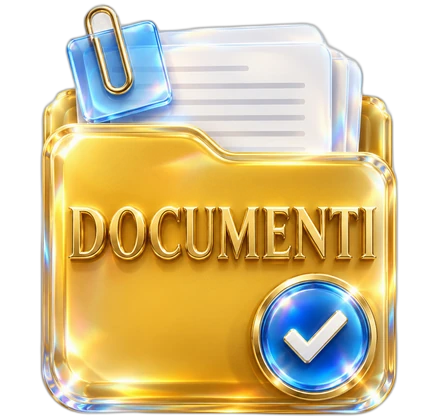
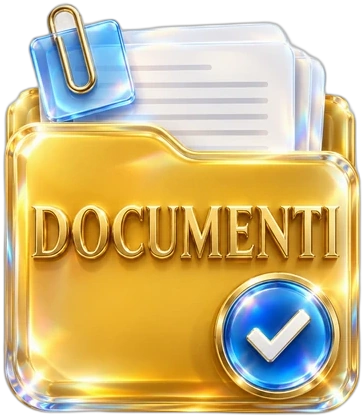
Invio: il pulsante sta dentro il riquadro scelto e pulsa; nuova icona della chat; icona dei documenti più grande
Claude-Session: https://claude.ai/code/session_01Cqi2BvgWJF36FDNNWop7Gq

diff --git a/invio.py b/invio.py
@@ -403,6 +403,11 @@ def _inv_nomi_unici(allegati):
     return risultato
 
 
+_INV_CSS_PULSA = ("<style>@keyframes invg-pulsa{0%,100%{transform:scale(1);box-shadow:0 0 0 0 rgba(38,198,218,.75)}50%{transform:scale(1.025);box-shadow:0 0 0 10px rgba(38,198,218,0)}}"
+                  "div[class*='st-key-invg_'] button[kind='primary'],div[class*='st-key-invg_'] a[kind='primary'],div[class*='st-key-invg_'] [data-testid='stBaseButton-primary'],"
+                  "div[class*='st-key-invg_'] [data-testid='stBaseLinkButton-primary']{animation:invg-pulsa 1.5s ease-in-out infinite !important}"
+                  ".invg-fai{font-weight:800;font-size:.9rem;margin:6px 0 2px;opacity:.95}"
+                  "@media (prefers-reduced-motion:reduce){div[class*='st-key-invg_'] button,div[class*='st-key-invg_'] a{animation:none !important}}</style>")
 _INV_NUM = ["1⃣", "2⃣", "3⃣", "4⃣", "5⃣", "6⃣", "7⃣"]
 
 
@@ -572,6 +577,72 @@ def inv_canali(chiave, titolo, testo, allegati, oggetto=None, passo=1, forma_fis
     # ---- con cosa e a chi
     st.warning("🔒 Stai per inviare **dati personali**: controlla bene a chi li mandi.")
     ha_file = bool(pronti)
+
+    def _azione(canale):
+        """Il campo «a chi» e il pulsante per inviare: stanno DENTRO il riquadro della voce scelta (non in fondo alla pagina)."""
+        st.markdown("<div class='invg-fai'>👇 " + ("Scrivi a chi e invia" if canale in ("email", "wa", "sms") else "Tocca per inviare") + "</div>", unsafe_allow_html=True)
+        if canale == "app":
+            st.caption("Si apre la finestra **Condividi**: scegli l'app (WhatsApp, Gmail, Telegram, Drive…) e poi la persona. " + ("I file sono già allegati." if ha_file else ""))
+            inv_registra_condivisione(chiave, titolo, testo, pronti)
+            with st.container(key=f"invio_share_{chiave}"):
+                st.button("📤 Invia adesso: scegli WhatsApp, Gmail…", key=f"invio_btn_share_{chiave}", type="primary", width="stretch")
+            st.markdown("<div class='inv-diag' style='font-size:.82rem;margin:2px 0 6px'></div>", unsafe_allow_html=True)
+            if ha_file:
+                st.caption("Se non si apre: torna al passo «Cosa vuoi fare?», scegli **Scaricarlo** e poi allegalo a mano nell'app con la graffetta 📎.")
+        elif canale == "email":
+            if not inv_email_pronta():
+                st.info("L'app non ha ancora una casella per spedire da sola (servono EMAIL_USER ed EMAIL_PASSWORD nei Secrets di Streamlit: la guida «Invio» spiega come). "
+                        "Intanto si apre **la tua posta** con il testo già scritto" + ("; i file allegali dopo averli scaricati." if ha_file else "."))
+                a = st.text_input("Indirizzo email di chi lo riceve (facoltativo)", key=f"inv_a_{chiave}")
+                st.link_button("✉ Apri la mia posta", inv_link_mailto(a.strip(), oggetto, testo), width="stretch", type="primary")
+            else:
+                a = st.text_input("Indirizzo email di chi lo riceve (più indirizzi: separali con la virgola)", value=d_conto.get("avviso_email", ""), key=f"inv_a_{chiave}")
+                msg = st.text_area("Messaggio", value="Ti mando in allegato i documenti. " if ha_file else "Ecco il riepilogo.", key=f"inv_m_{chiave}", height=80)
+                scelti = [x for i, x in enumerate(pronti) if st.checkbox(f"📎 {x[0]} ({len(x[2]) // 1024} KB)", value=True, key=f"inv_c_{chiave}_{i}")]
+                if sum(len(x[2]) for x in scelti) > _MAX_ALLEGATI:
+                    st.warning("I file scelti sono troppo pesanti per una sola email: togline qualcuno, oppure scaricali e mandali con un servizio per file grandi.")
+                if st.button("✉ Invia l'email", type="primary", key=f"inv_si_{chiave}", width="stretch"):
+                    ok, ko = inv_indirizzi(a)
+                    if not ok:
+                        st.error("Scrivi un indirizzo email valido.")
+                    elif ko:
+                        st.error("Indirizzo non valido: " + ", ".join(ko))
+                    elif len(ok) > 5:
+                        st.error("Al massimo 5 indirizzi per volta.")
+                    elif st.session_state.get("inv_n_email", 0) >= 20:
+                        st.error("Hai già mandato molte email in questa sessione: riapri l'app per continuare.")
+                    else:
+                        with st.spinner("Invio in corso…"):
+                            esito, motivo = inv_invia_email(ok, oggetto, (msg.strip() + "\n\n" + testo)[:20000], scelti)
+                        if esito:
+                            st.session_state["inv_n_email"] = st.session_state.get("inv_n_email", 0) + 1
+                            st.success("✅ Email inviata a " + ", ".join(ok))
+                        else:
+                            st.error("Non sono riuscito a inviarla: " + motivo)
+        elif canale == "wa":
+            num_wa = st.text_input("Numero di chi lo riceve (facoltativo: con prefisso, senza +, es. 39333…)", key=f"inv_wa_{chiave}")
+            st.link_button("💬 Apri WhatsApp con il testo", inv_link_whatsapp(num_wa, testo), width="stretch", type="primary")
+            st.caption("Senza numero, WhatsApp ti fa scegliere la persona." + (" Va solo il testo: per mandare anche il file scegli «WhatsApp, Telegram, Gmail…» nel riquadro verde." if ha_file else ""))
+        elif canale == "tg":
+            chat = str(d_conto.get("telegram_chat_id") or "").strip()
+            if not inv_segreto("TELEGRAM_TOKEN"):
+                st.info("Per mandare i file nella tua chat Telegram serve TELEGRAM_TOKEN nei Secrets di Streamlit (lo stesso del bot): la guida «Invio» spiega come. "
+                        "Intanto scegli «WhatsApp, Telegram, Gmail o un'altra app» e poi Telegram.")
+            elif not chat:
+                st.info("Manca il tuo Chat ID: inseriscilo in «Scegli come ricevere gli avvisi» in Salute, poi torna qui.")
+            else:
+                st.caption("Testo e file arrivano nella **tua** chat con il bot dell'app: da lì li inoltri a chi vuoi.")
+                if st.button("✈ Mandami tutto su Telegram", type="primary", key=f"inv_tg_{chiave}", width="stretch"):
+                    with st.spinner("Invio in corso…"):
+                        esito, motivo = inv_invia_telegram(chat, testo, pronti)
+                    st.success("✅ Inviato: guarda Telegram.") if esito else st.error("Non sono riuscito a inviarlo: " + motivo)
+        elif canale == "sms":
+            num2 = st.text_input("Numero di chi lo riceve (facoltativo)", key=f"inv_sms_{chiave}")
+            st.link_button("📱 Apri i messaggi con il testo", inv_link_sms(num2, testo), width="stretch", type="primary")
+            st.caption("Gli SMS sono brevi: va solo l'inizio del testo.")
+        else:
+            st.caption("Tocca l'icona in alto a destra del riquadro per copiare, poi incolla dove vuoi.")
+            st.code(testo, language=None, wrap_lines=True)
     st.markdown(f"**{num()} Con cosa lo mandi?**")
     passo += 1
     k_f, k_t = f"inv_canf_{chiave}", f"inv_cant_{chiave}"
@@ -589,7 +660,7 @@ def inv_canali(chiave, titolo, testo, allegati, oggetto=None, passo=1, forma_fis
             st.session_state[k_f], st.session_state[k_t] = next(iter(file_g)), None
         st.markdown("<style>div[class*='st-key-invg_file_']{border:2px solid #2ecc71 !important;border-radius:16px !important;background:rgba(46,204,113,.09) !important;padding:10px 12px !important}"
                     "div[class*='st-key-invg_testo_']{border:2px solid #f5a623 !important;border-radius:16px !important;background:rgba(245,166,35,.08) !important;padding:10px 12px !important}"
-                    ".invg-t{font-weight:800;font-size:.95rem;margin:0 0 2px}.invg-t.f{color:#57e39a}.invg-t.t{color:#ffc061}</style>", unsafe_allow_html=True)
+                    ".invg-t{font-weight:800;font-size:.95rem;margin:0 0 2px}.invg-t.f{color:#57e39a}.invg-t.t{color:#ffc061}</style>" + _INV_CSS_PULSA, unsafe_allow_html=True)
 
         def _scelto(questo, altro):
             if st.session_state.get(questo) is not None:
@@ -597,86 +668,25 @@ def inv_canali(chiave, titolo, testo, allegati, oggetto=None, passo=1, forma_fis
         with st.container(key=f"invg_file_{chiave}"):
             st.markdown(f"<div class='invg-t f'>📎 CON {nome_f.upper()} · consigliato</div>", unsafe_allow_html=True)
             st.radio("Con il file", list(file_g), format_func=lambda k: file_g[k], index=None, key=k_f, label_visibility="collapsed", on_change=_scelto, args=(k_f, k_t))
+            if st.session_state.get(k_f) in file_g:
+                _azione(st.session_state[k_f])
         with st.container(key=f"invg_testo_{chiave}"):
             st.markdown("<div class='invg-t t'>✍ SOLO IL TESTO · senza " + nome_f + "</div>", unsafe_allow_html=True)
             st.radio("Solo il testo", list(testo_g), format_func=lambda k: testo_g[k], index=None, key=k_t, label_visibility="collapsed", on_change=_scelto, args=(k_t, k_f))
-        canale = st.session_state.get(k_f) or st.session_state.get(k_t)
-        if canale == "email" and "email" in testo_g:
-            canale = "email"
+            if st.session_state.get(k_t) in testo_g:
+                _azione(st.session_state[k_t])
+        if not (st.session_state.get(k_f) or st.session_state.get(k_t)):
+            st.caption("Scegli una voce in uno dei due riquadri.")
     else:                                                         # non ci sono file: è tutto testo, un riquadro solo
         tutti = {"app": ("📤 WhatsApp, Telegram, Gmail o un'altra app" if disp == "telefono" else "📤 Un'altra app del computer"), "email": "✉ Email", "wa": "💬 WhatsApp (a un numero)",
                  "tg": "✈ Telegram, nella mia chat", "sms": testo_g["sms"], "copia": testo_g["copia"]}
         if disp != "telefono":
             tutti = {k: tutti[k] for k in ("email", "wa", "tg", "sms", "copia", "app")}
-        canale = st.radio("Con cosa lo mandi?", list(tutti), format_func=lambda k: tutti[k], key=f"inv_can_{chiave}", label_visibility="collapsed")
-    if not canale:
-        st.caption("Scegli una voce qui sopra.")
-        return
-    st.markdown(f"**{num()} A chi**" if canale in ("email", "wa", "sms") else f"**{num()} Invia**")
-
-    if canale == "app":
-        st.caption("Si apre la finestra **Condividi**: scegli l'app (WhatsApp, Gmail, Telegram, Drive…) e poi la persona. " + ("I file sono già allegati." if ha_file else ""))
-        inv_registra_condivisione(chiave, titolo, testo, pronti)
-        with st.container(key=f"invio_share_{chiave}"):
-            st.button("📤 Apri «Condividi»", key=f"invio_btn_share_{chiave}", type="primary", width="stretch")
-        st.markdown("<div class='inv-diag' style='font-size:.82rem;margin:2px 0 6px'></div>", unsafe_allow_html=True)
-        if ha_file:
-            st.caption("Se non si apre: torna al passo «Cosa vuoi fare?», scegli **Scaricarlo** e poi allegalo a mano nell'app con la graffetta 📎.")
-    elif canale == "email":
-        if not inv_email_pronta():
-            st.info("L'app non ha ancora una casella per spedire da sola (servono EMAIL_USER ed EMAIL_PASSWORD nei Secrets di Streamlit: la guida «Invio» spiega come). "
-                    "Intanto si apre **la tua posta** con il testo già scritto" + ("; i file allegali dopo averli scaricati." if ha_file else "."))
-            a = st.text_input("Indirizzo email di chi lo riceve (facoltativo)", key=f"inv_a_{chiave}")
-            st.link_button("✉ Apri la mia posta", inv_link_mailto(a.strip(), oggetto, testo), width="stretch", type="primary")
-        else:
-            a = st.text_input("Indirizzo email di chi lo riceve (più indirizzi: separali con la virgola)", value=d_conto.get("avviso_email", ""), key=f"inv_a_{chiave}")
-            msg = st.text_area("Messaggio", value="Ti mando in allegato i documenti. " if ha_file else "Ecco il riepilogo.", key=f"inv_m_{chiave}", height=80)
-            scelti = [x for i, x in enumerate(pronti) if st.checkbox(f"📎 {x[0]} ({len(x[2]) // 1024} KB)", value=True, key=f"inv_c_{chiave}_{i}")]
-            if sum(len(x[2]) for x in scelti) > _MAX_ALLEGATI:
-                st.warning("I file scelti sono troppo pesanti per una sola email: togline qualcuno, oppure scaricali e mandali con un servizio per file grandi.")
-            if st.button("✉ Invia l'email", type="primary", key=f"inv_si_{chiave}", width="stretch"):
-                ok, ko = inv_indirizzi(a)
-                if not ok:
-                    st.error("Scrivi un indirizzo email valido.")
-                elif ko:
-                    st.error("Indirizzo non valido: " + ", ".join(ko))
-                elif len(ok) > 5:
-                    st.error("Al massimo 5 indirizzi per volta.")
-                elif st.session_state.get("inv_n_email", 0) >= 20:
-                    st.error("Hai già mandato molte email in questa sessione: riapri l'app per continuare.")
-                else:
-                    with st.spinner("Invio in corso…"):
-                        esito, motivo = inv_invia_email(ok, oggetto, (msg.strip() + "\n\n" + testo)[:20000], scelti)
-                    if esito:
-                        st.session_state["inv_n_email"] = st.session_state.get("inv_n_email", 0) + 1
-                        st.success("✅ Email inviata a " + ", ".join(ok))
-                    else:
-                        st.error("Non sono riuscito a inviarla: " + motivo)
-    elif canale == "wa":
-        num_wa = st.text_input("Numero di chi lo riceve (facoltativo: con prefisso, senza +, es. 39333…)", key=f"inv_wa_{chiave}")
-        st.link_button("💬 Apri WhatsApp con il testo", inv_link_whatsapp(num_wa, testo), width="stretch", type="primary")
-        st.caption("Senza numero, WhatsApp ti fa scegliere la persona." + (" Va solo il testo: per mandare anche il file scegli «WhatsApp, Telegram, Gmail…» nel riquadro verde." if ha_file else ""))
-    elif canale == "tg":
-        chat = str(d_conto.get("telegram_chat_id") or "").strip()
-        if not inv_segreto("TELEGRAM_TOKEN"):
-            st.info("Per mandare i file nella tua chat Telegram serve TELEGRAM_TOKEN nei Secrets di Streamlit (lo stesso del bot): la guida «Invio» spiega come. "
-                    "Intanto scegli «WhatsApp, Telegram, Gmail o un'altra app» e poi Telegram.")
-        elif not chat:
-            st.info("Manca il tuo Chat ID: inseriscilo in «Scegli come ricevere gli avvisi» in Salute, poi torna qui.")
-        else:
-            st.caption("Testo e file arrivano nella **tua** chat con il bot dell'app: da lì li inoltri a chi vuoi.")
-            if st.button("✈ Mandami tutto su Telegram", type="primary", key=f"inv_tg_{chiave}", width="stretch"):
-                with st.spinner("Invio in corso…"):
-                    esito, motivo = inv_invia_telegram(chat, testo, pronti)
-                st.success("✅ Inviato: guarda Telegram.") if esito else st.error("Non sono riuscito a inviarlo: " + motivo)
-    elif canale == "sms":
-        num2 = st.text_input("Numero di chi lo riceve (facoltativo)", key=f"inv_sms_{chiave}")
-        st.link_button("📱 Apri i messaggi con il testo", inv_link_sms(num2, testo), width="stretch", type="primary")
-        st.caption("Gli SMS sono brevi: va solo l'inizio del testo.")
-    else:
-        st.caption("Tocca l'icona in alto a destra del riquadro per copiare, poi incolla dove vuoi.")
-        st.code(testo, language=None, wrap_lines=True)
-
+        st.markdown("<style>div[class*='st-key-invg_solo_']{border:2px solid #4aa3ff !important;border-radius:16px !important;background:rgba(74,163,255,.08) !important;padding:10px 12px !important}</style>"
+                    + _INV_CSS_PULSA, unsafe_allow_html=True)
+        with st.container(key=f"invg_solo_{chiave}"):
+            canale = st.radio("Con cosa lo mandi?", list(tutti), format_func=lambda k: tutti[k], key=f"inv_can_{chiave}", label_visibility="collapsed")
+            _azione(canale)
 
 def inv_voce(chiave, etichetta, titolo, testo, carica_allegati):
     """Il tasto «Invia» di una singola voce (documento, medicinale, prescrizione, visita): apre i canali con i suoi file allegati."""

diff --git a/intestazioni.py b/intestazioni.py
@@ -50,10 +50,11 @@ def ih_css(sezione):
     uri = ih_uri(nome)
     if not uri:
         return ""
+    lato, lato_p = (110, 92) if sezione == "documenti" else (92, 76)          # l'icona dei documenti è alta e stretta: un po' più grande, così pesa come le altre
     return (f"<style>.{classe}{{display:grid !important;grid-template-columns:auto 1fr !important;column-gap:16px !important;align-items:center !important}}"
-            f".{classe}::before{{content:'';grid-row:1 / span 2;width:92px;height:92px;background:url({uri}) center/contain no-repeat;filter:drop-shadow(0 4px 6px rgba(0,0,0,.35))}}"
+            f".{classe}::before{{content:'';grid-row:1 / span 2;width:{lato}px;height:{lato}px;background:url({uri}) center/contain no-repeat;filter:drop-shadow(0 4px 6px rgba(0,0,0,.35))}}"
             f".{classe}>h1{{grid-column:2;grid-row:1;align-self:end}}.{classe}>p{{grid-column:2;grid-row:2;align-self:start}}"
-            f"@media (max-width:420px){{.{classe}::before{{width:76px;height:76px}}}}</style>")
+            f"@media (max-width:420px){{.{classe}::before{{width:{lato_p}px;height:{lato_p}px}}}}</style>")
 
 
 def ih_sezione_corrente():

diff --git a/farmacia.py b/farmacia.py
@@ -3374,7 +3374,7 @@ def icona_farmacia():
     if uri:
         css += _css_icona("fa_icona", uri, "1/1", "fa-battito", 2.2)
     if uri_d:
-        css += _css_icona("doc_icona", uri_d, "360/345", "doc-allarme" if urg else "doc-battito", 1.2 if urg else 2.2)
+        css += _css_icona("doc_icona", uri_d, "364/418", "doc-allarme" if urg else "doc-battito", 1.2 if urg else 2.2)
     uri_u = _fa_file_uri("utilita.webp") if "schermata_utilita" in globals() else ""
     if uri_u:
         css += ("@keyframes ut-battito{0%,100%{transform:scale(1);filter:drop-shadow(0 4px 6px rgba(0,0,0,.25))}"
